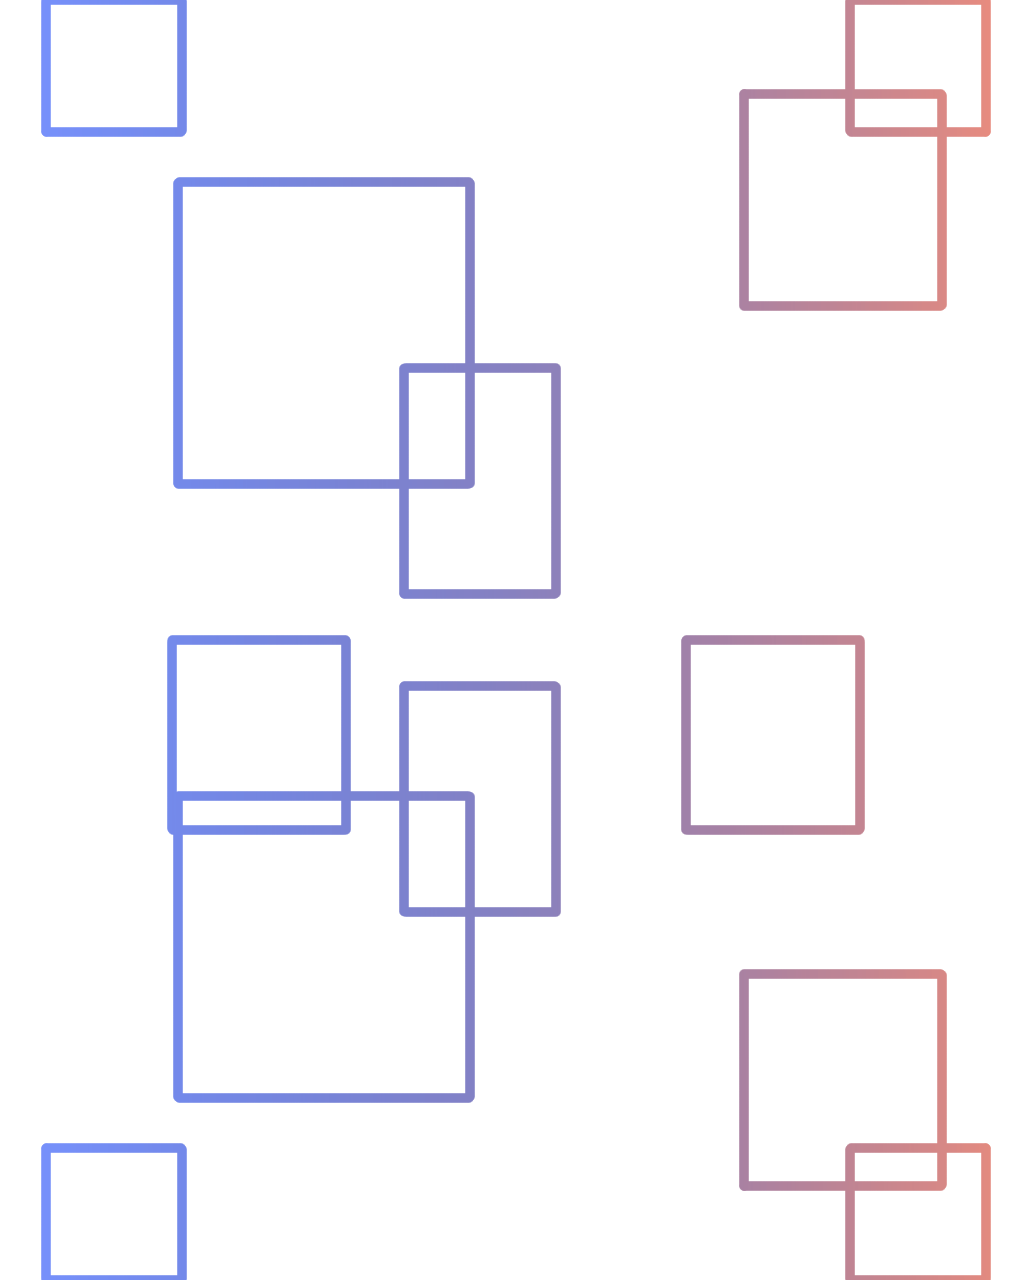
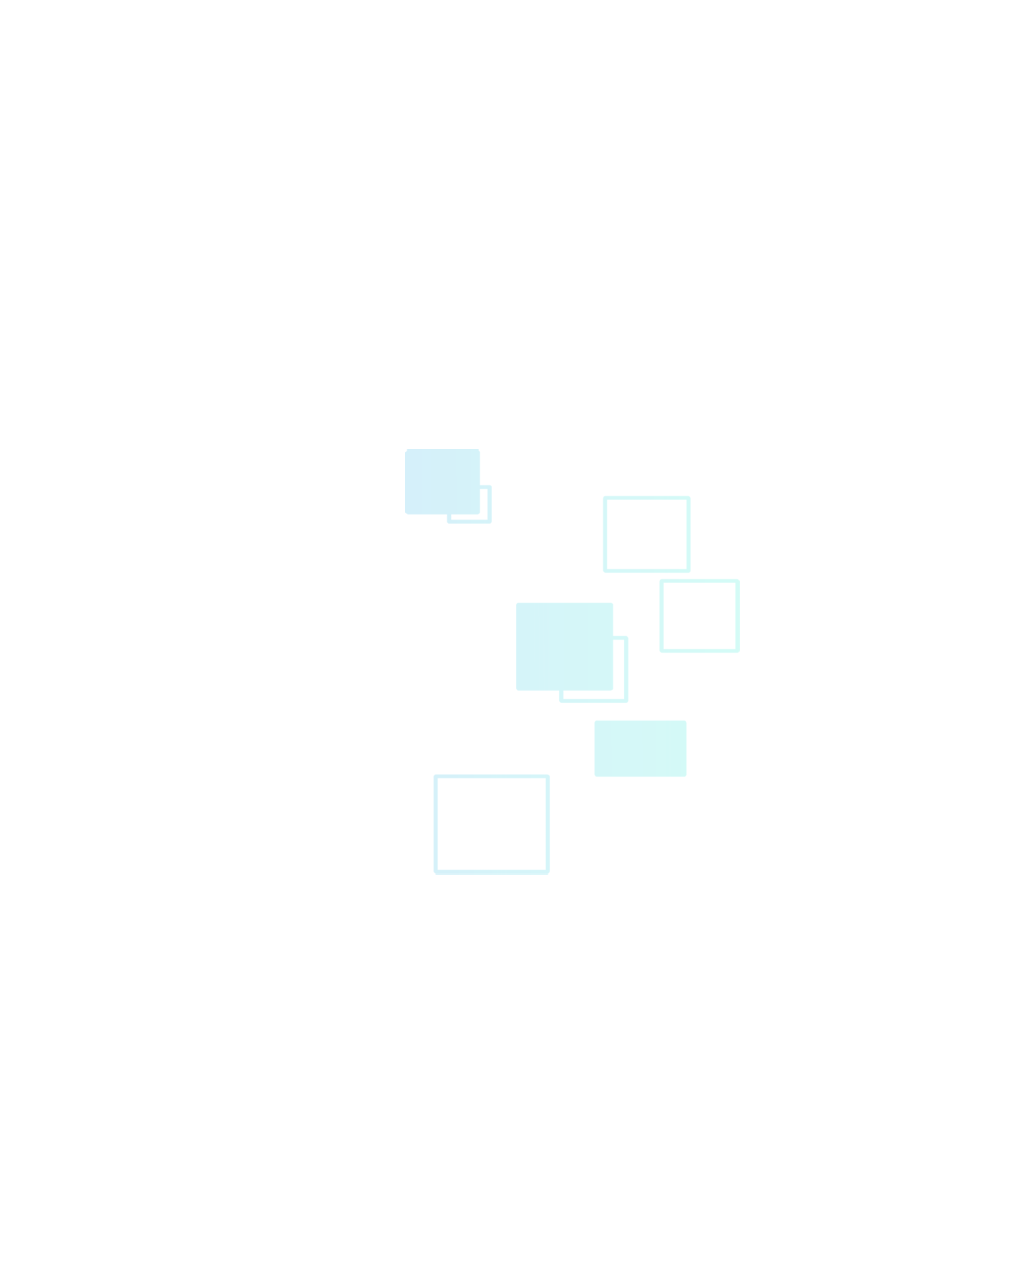
Fully functional website, need to refine layout and do one more revision.

diff --git a/components/RotateImage.tsx b/components/RotateImage.tsx
@@ -1,0 +1,41 @@
+"use client"
+import React, {useRef} from 'react'
+import rotateImg from '@/public/assets/rotate-graphics.png'
+import {motion, useScroll, useTransform} from 'framer-motion';
+import Image from 'next/image';
+
+interface RotateImageProps{
+    children: React.ReactNode;
+}
+
+export default function RotateImage({children}:RotateImageProps) {
+    const ref = useRef<HTMLDivElement>(null);
+    const {scrollYProgress} = useScroll({
+        target:ref,
+        offset: ["0 .5", "1.3 1"]
+    })
+
+    var rotateY = useTransform(scrollYProgress, [0,1], [-20, 20])
+
+  return (
+    <motion.div
+        className = "w-full flex flex-col items-center justify-center relative"
+        ref = {ref}>
+            <motion.div className = {`rotate-container absolute top-0 left-0 w-full h-full -z-10`}
+            style = {{
+                skewY: rotateY,
+                perspective: "1000px",
+            }}>
+                <div className = "relative w-full h-full overflow-hidden">
+                    <Image src = {rotateImg} alt = "Rotate Image" className = "rotate-image hidden lg:block -translate-z-[400px] translate-x-[20%] -translate-y-[15%] -z-10"
+                    id = "rotate-image-1"/>
+                    <Image src = {rotateImg} alt = "Rotate Image" className = "rotate-image hidden lg:block -translate-z-[150px] -translate-x-[20%] translate-y-[15%] -z-10"
+                    id = "rotate-image-2" />
+                    <Image src = {rotateImg} alt = "Rotate Image" className = "rotate-image hidden lg:block -translate-z-[200px] -translate-x-[30%] -translate-y-[40%] -z-10"
+                    id = "rotate-image-3" />
+                </div>
+            </motion.div>
+        {children}
+    </motion.div>
+  )
+}

diff --git a/components/Project.tsx b/components/Project.tsx
@@ -30,7 +30,7 @@ export default function Project({name, description, languages, link, inprogress,
           className="group mb-3 sm:mb-8 last:mb-0 w-[100%]"
         >
           <section className={`flex flex-row lg:group-even:flex-row-reverse bg-slate-100 w-[100%] max-w-[60rem] border 
-          border-black/5 rounded-lg overflow-hidden sm:pr-8 relative h-fit lg:h-[30rem] hover:bg-lime-200/20 hover:scale-[1.02] transition 
+          border-black/5 rounded-lg overflow-hidden sm:pr-8 relative h-fit lg:h-[30rem] hover:bg-lime-50 hover:scale-[1.02] transition 
            dark:text-white dark:bg-white/10 dark:hover:bg-white/20`}>
             <div className="pt-4 pb-7 px-5 sm:pl-10 sm:pr-2 sm:pt-10 w-[100%] lg:max-w-[50%] flex flex-col h-full">
               <h3 className="text-2xl font-semibold">{name}</h3>
@@ -86,7 +86,7 @@ export default function Project({name, description, languages, link, inprogress,
             group-even:right-[initial] group-even:-left-20
             "
             />
-            <div className = "hidden ease-in-out duration-300 lg:block top-4 -right-20 group-even:-left-20 group-hover:-translate-x-20 group-hover:group-even:translate-x-20 absolute rounded-full w-16 h-8 transition">
+            <div className = "hidden ease-in-out duration-300 lg:block top-4 -right-20 group-even:-left-20 group-hover:-translate-x-20 group-hover:group-even:translate-x-20 absolute rounded-full w-16 h-16 transition">
               <Image
               src = {grizzCub}
               alt = "Grizzy & Cubby"

diff --git a/components/Experience.tsx b/components/Experience.tsx
@@ -27,7 +27,7 @@ export default function Experience() {
     className = "w-[min(90%,60rem)] max-w-[60rem] my-28 flex flex-col justify-center items-center">
         <div className = "w-[100%] flex flex-col justify-center items-center" ref = {ref}>
             <h2 className = "text-2xl font-medium capitalize">My Experience</h2>
-            <div className = {`bg-slate-100 hover:bg-lime-200/20 hover:scale-[1.02] h-fit flex flex-col items-start justify-center mt-14 w-[100%]
+            <div className = {`bg-slate-100 hover:bg-lime-50 hover:scale-[1.02] h-fit flex flex-col items-start justify-center mt-14 w-[100%]
             min-h-[200px] p-8 rounded-md scroll-mt-56`}
             id = "experience">
                 <div className = "text-[1.5rem] font-semibold">{experience[0].companyName}</div>
@@ -45,7 +45,7 @@ export default function Experience() {
                 <ul className = "flex flex-row flex-wrap gap-2">
                     {
                         experience[0].skills.map((curr,index) => (
-                            <li className = "bg-black/[0.7] px-3 py-1 text-[0.7rem] uppercase tracking-wider text-white rounded-full dark:text-white/70 mt-2">
+                            <li key = {index} className = "bg-black/[0.7] px-3 py-1 text-[0.7rem] uppercase tracking-wider text-white rounded-full dark:text-white/70 mt-2">
                                 {curr}
                             </li>
                         ))

diff --git a/app/layout.tsx b/app/layout.tsx
@@ -19,8 +19,8 @@ export default function RootLayout({
   return (
     <html lang="en" className = "!scroll-smooth">
       <body className={`${inter.className} bg-slate-50 text-gray-950 relative`}>
-        <div className = "bg-[#fbe2e3] -z-10 absolute top-[-6rem] right-[11rem] h-[31.25rem] w-[31.25rem] rounded-full blur-[10rem] sm:w-[68.75rem]"></div>
-        <div className = "bg-[#dbd7fb] -z-10 absolute top-[-1rem] left-[-35rem] h-[31.25rem] w-[31.25rem] rounded-full blur-[10rem] sm:w-[68.75rem] md:left-[-33rem] lg:left-[-28rem] first-letter:xl:left-[-15rem] 2xl:left-[-5rem]"></div>
+        <div className = "hidden sm:block bg-lime-100/80 -z-10 absolute top-[-6rem] right-[1rem] h-[31.25rem] w-[31.25rem] rounded-full blur-[10rem] sm:w-[68.75rem]"></div>
+        <div className = "bg-cyan-100 -z-10 absolute top-[-1rem] left-0 sm:left-[-35rem] h-[31.25rem] w-[31.25rem] rounded-full blur-[10rem] sm:w-[68.75rem] md:left-[-33rem] lg:left-[-15rem] first-letter:xl:left-[-15rem] 2xl:left-[-5rem]"></div>
         <ActiveContext>
           <Header/>
           {children}

diff --git a/components/Skills.tsx b/components/Skills.tsx
@@ -19,15 +19,15 @@ export default function Skills() {
     <motion.div className = "flex flex-col items-center justify-center w-[min(90%, 60rem)] max-w-[60rem] scroll-mt-56 my-28" id = "skills" 
     ref = {ref1}
     style = {{
-        opacity: scrollOpacity,
-        scale: scrollScale
+        scale: scrollScale,
+        opacity: scrollOpacity
     }}>
         <div ref = {ref} className = "flex flex-col items-center justify-center w-[100%] scroll-mt-56 my-28">
             <h2 className = "text-2xl font-medium capitalize">My Skills</h2>
             <ul className = "flex flex-row justify-center w-[100%] flex-wrap gap-4 border-box p-8">
                 {
                 skills.map((curr,index) => (
-                    <li className = "rounded-full bg-slate-200 p-4 text-slate-800/70 shadow-black/15 shadow-md">{curr}</li>
+                    <li className = "rounded-full bg-slate-200 p-4 text-slate-800/70 shadow-black/15 shadow-md" key = {index}>{curr}</li>
                 ))
                 }
             </ul>

diff --git a/app/page.tsx b/app/page.tsx
@@ -1,11 +1,11 @@
 import Image from 'next/image'
-import Header from '@/components/Header'
 import About from '@/components/About'
 import Projects from '@/components/Projects'
 import Skills from '@/components/Skills'
 import Experience from '@/components/Experience'
 import AboutMe from '@/components/AboutMe'
 import Contact from '@/components/Contact'
+import RotateImage from '@/components/RotateImage'
 
 export default function Home() {
   return (
@@ -13,9 +13,12 @@ export default function Home() {
       <About/>
       <AboutMe/>
       <Projects/>
-      <Skills/>
-      <Experience/>
+      <RotateImage>
+        <Skills/>
+        <Experience/>
+      </RotateImage>
       <Contact/>
     </main>
   )
 }
+

diff --git a/components/Projects.tsx b/components/Projects.tsx
@@ -3,6 +3,8 @@ import React, {useRef} from 'react'
 import { projects } from '@/lib/variables'
 import Project from './Project';
 import { useSectionInView } from '@/lib/hooks';
+import rotateImg from '@/public/assets/rotate-graphics.png'
+import Image from 'next/image';
 
 export default function Projects() {
   const {ref} = useSectionInView("Projects", 0.5);

diff --git a/app/globals.css b/app/globals.css
@@ -3,3 +3,16 @@
 @tailwind utilities;
 
 
+.rotate-image{
+    content: "";
+    position: absolute;
+    top: 20%;
+    left: 0;
+    width: 100%;
+    height: 100%;
+    z-index: -10;
+}
+
+.rotate-container{
+    transform-style:preserve-3d;
+}
